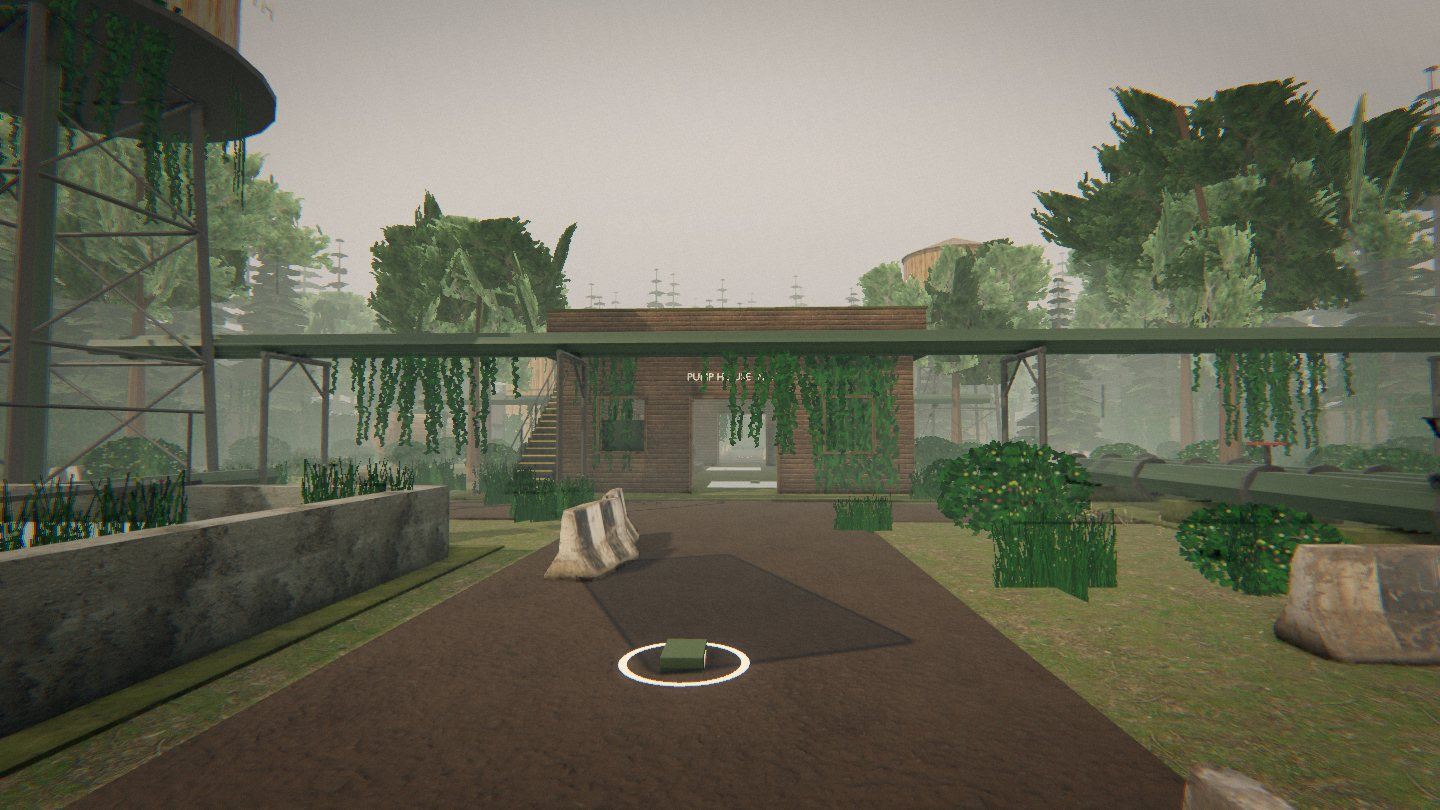
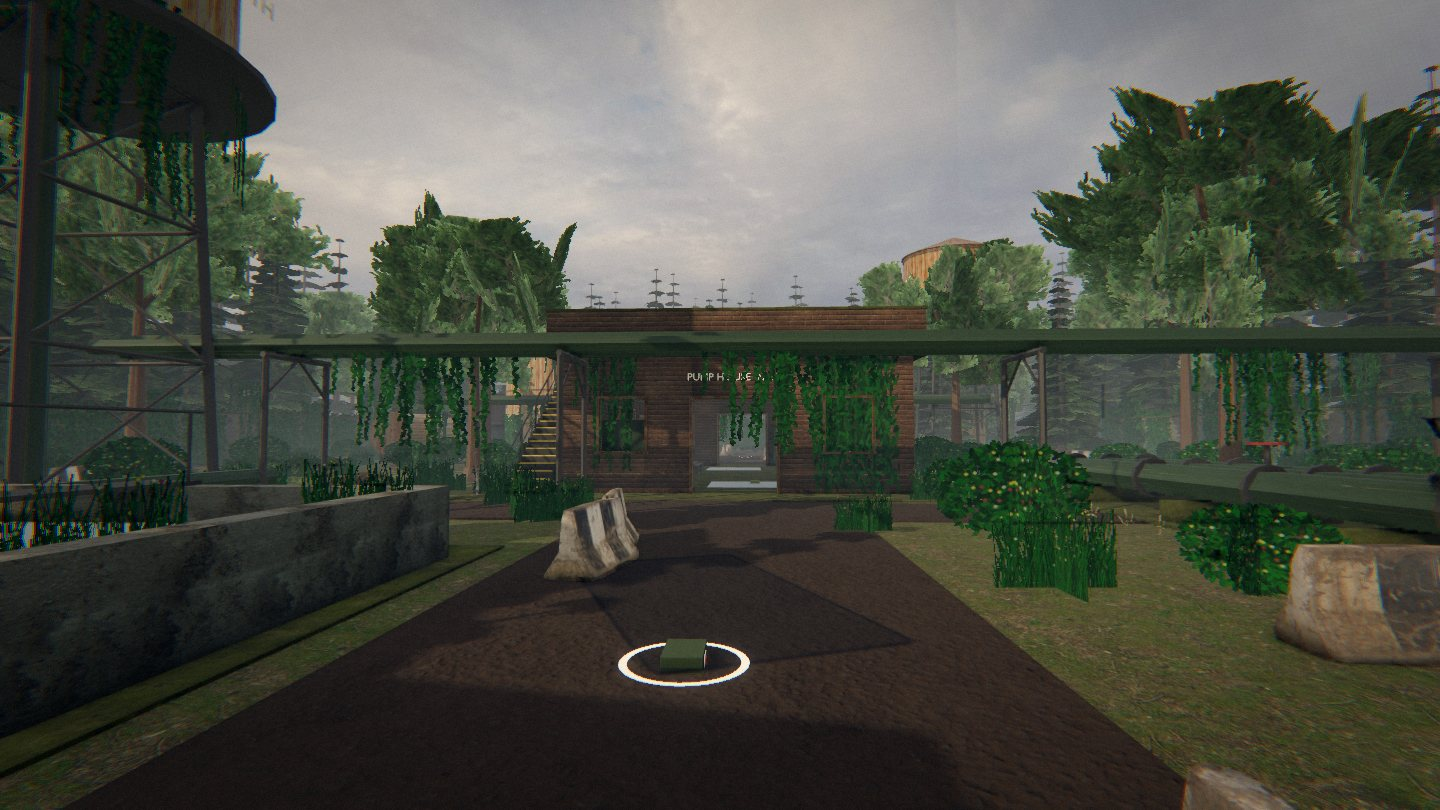
Overgrowth: an overcast sky with real cloud in place of the featureless fog photo; haze matched to its horizon

diff --git a/js/overgrowth_station.js b/js/overgrowth_station.js
@@ -17,7 +17,7 @@ export const OVERGROWTH_STATION = blendMap(DATA, {
   smooth: /rock|stump|trunk|root|tyre|barrel/i,
   clear: /^water$/,
   lightmap: 1.5, fill: 0.3, fillKit: 0.34,
-  // a misty morning in the foothills: a soft sun through thin cloud, cool grey-green haze in the trees
-  look: { photo: { url: 'assets/sky/kloofendal_misty_morning_puresky.jpg', u: 0.6204, gain: 1.0 }, sunElev: 38, fog: 0.011, fogColor: 0xa9b3ab, sun: 2.6, sunColor: 0xfff2dc, hemi: 0.3, hemiSky: 0xcfdcd4,
+  // an overcast morning in the foothills: a soft sun through broken cloud, cool grey haze in the trees
+  look: { photo: { url: 'assets/sky/kloofendal_overcast_puresky.jpg', u: 0.5859, gain: 1.1 }, sunElev: 24, fog: 0.0075, fogColor: 0x8a9196, sun: 2.6, sunColor: 0xfff2dc, hemi: 0.3, hemiSky: 0xcfdcd4,
     ground: 0x4c5a3a, exposure: 0.88, env: 0.3, bloom: 0.16 },
 });
